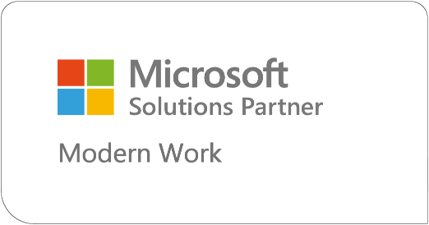
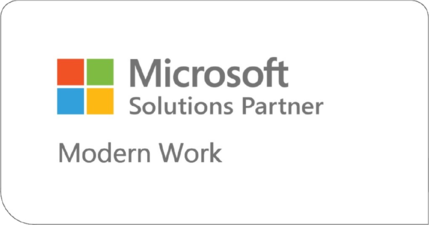
Add Microsoft Solutions Partner Security badge to partners section
Updates the Modern Work badge and adds a Security designation badge,
matching the multi-badge treatment already used for Cisco and AWS.

diff --git a/src/data/partners.ts b/src/data/partners.ts
@@ -15,7 +15,8 @@ export const partnerLogos: Partner[] = [
   { id: 'aws-wapp', name: 'AWS Well-Architected Partner', logo: '/images/partners/aws_wapp.png' },
 
   // Microsoft
-  { id: 'microsoft', name: 'Microsoft', logo: '/images/partners/microsoft.png' },
+  { id: 'microsoft', name: 'Microsoft Solutions Partner - Modern Work', logo: '/images/partners/microsoft.png' },
+  { id: 'microsoft-security', name: 'Microsoft Solutions Partner - Security', logo: '/images/partners/microsoft_security.png' },
 
   // Broadcom
   { id: 'broadcom', name: 'Broadcom', logo: '/images/partners/broadcom.png' },
